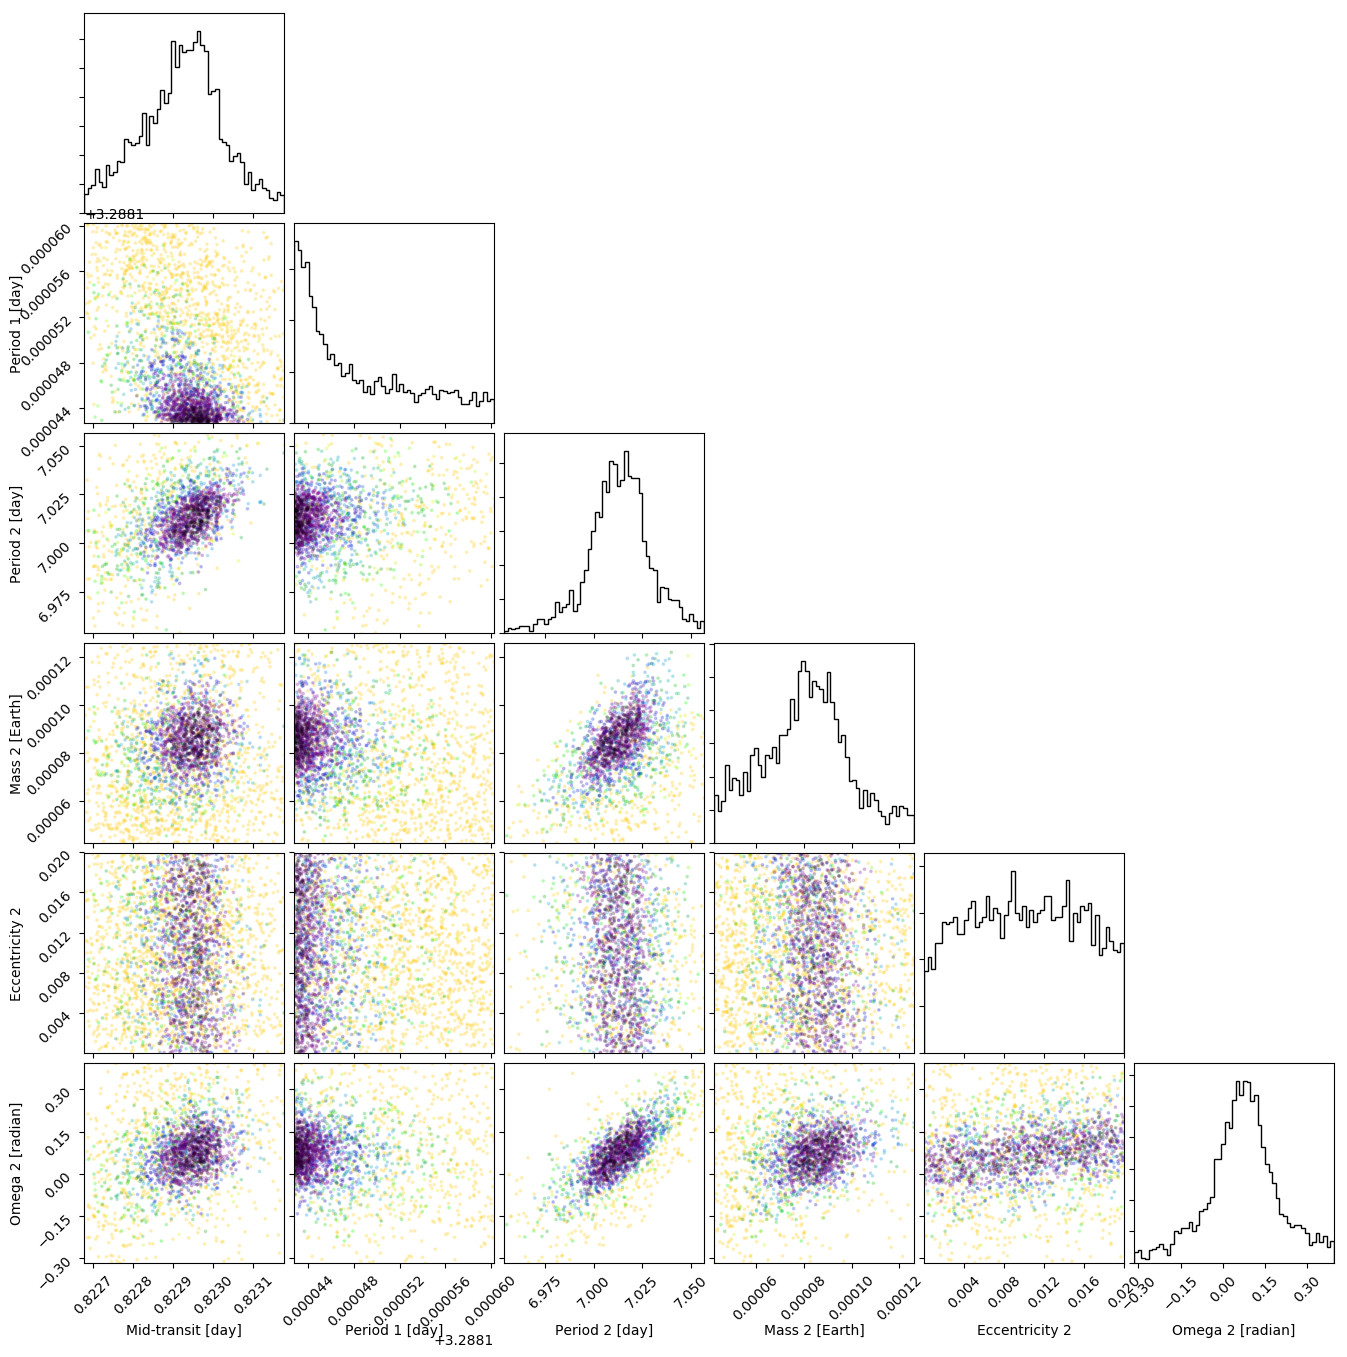
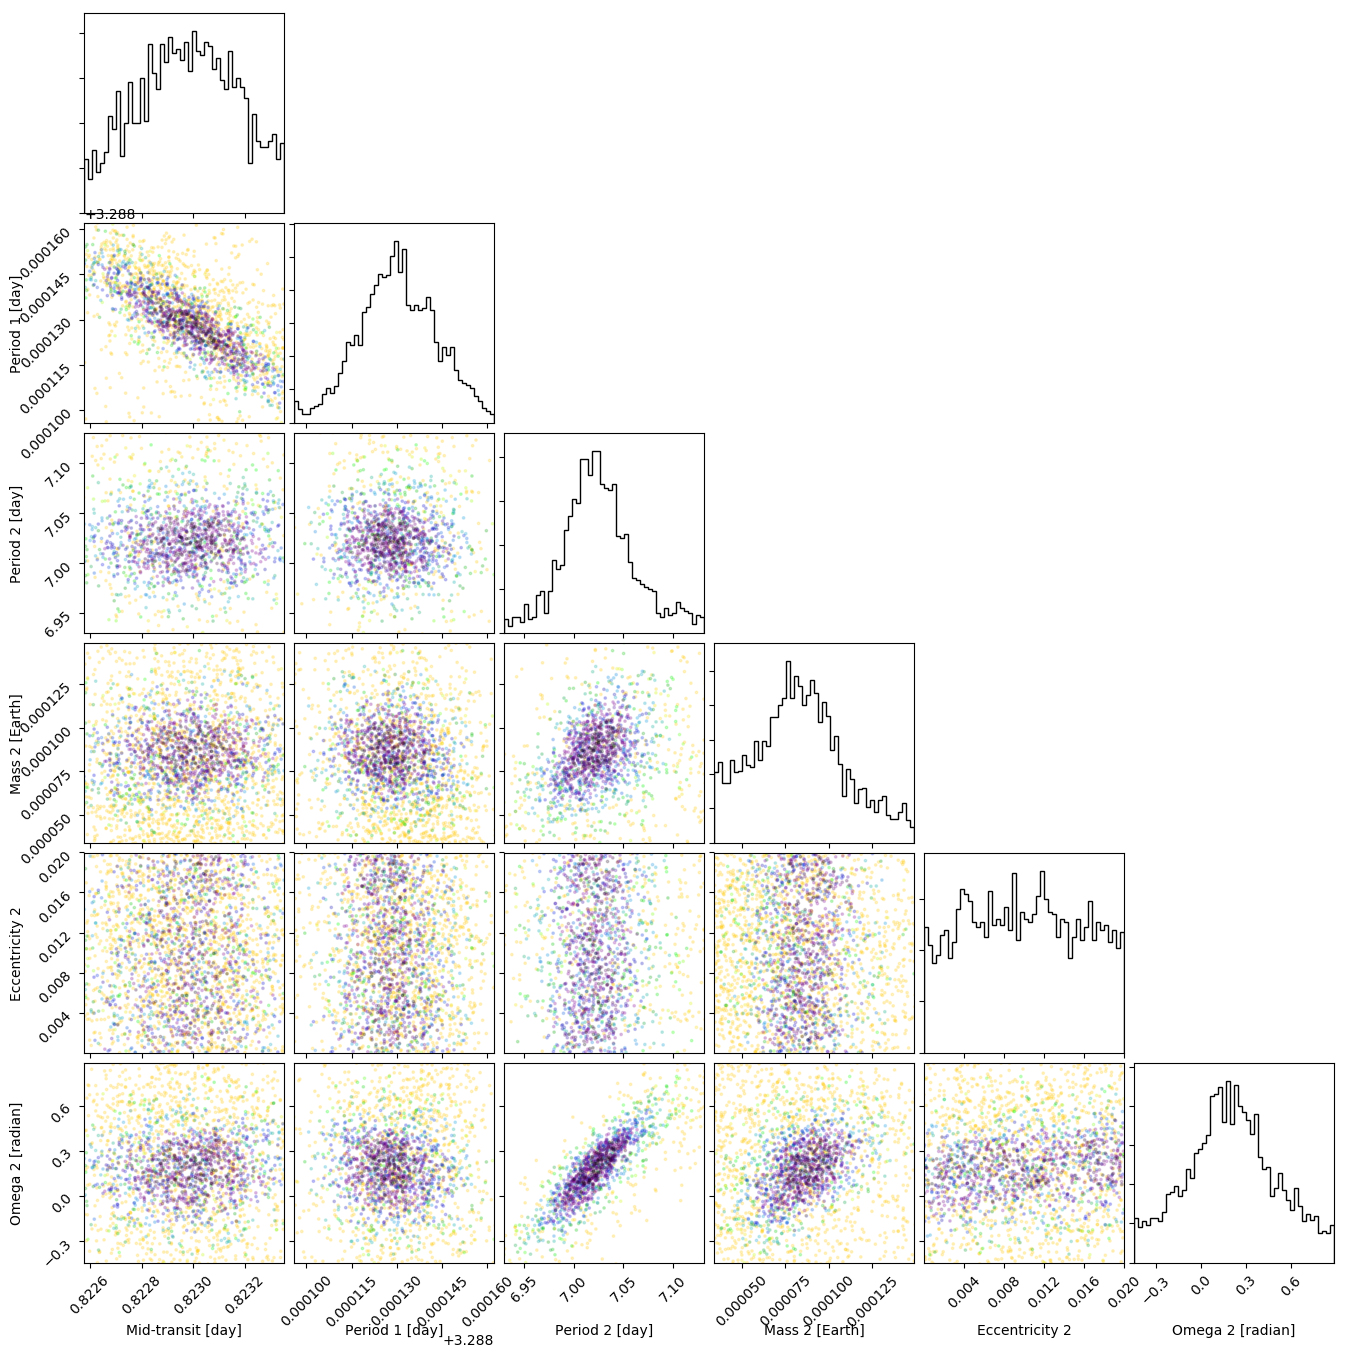
nested nbody fit

diff --git a/nbody/nested.py b/nbody/nested.py
@@ -154,7 +154,7 @@ def get_stats(posterior,percentile=50):
             '1sigma': [low1, high1],
             '2sigma': [low2, high2],
             '3sigma': [low3, high3],
-            '5sigma': [low5, high5],
+            '3sigma': [low5, high5],
             'q75%': q1,
             'q25%': q3,
             'q99%': q99,
@@ -166,14 +166,13 @@ def get_stats(posterior,percentile=50):
 
 
 def nbody_limits( newobj, nlstats, ttv):
-        
-    # TODO create wrapper 
+    # TODO create wrapper?
     upper = np.copy( ttv )
     lower = np.copy( ttv )
     
     obj = copy.deepcopy(newobj)
-    obj[2]['m'] = nlstats['marginals'][3]['5sigma'][0]
-    obj[2]['omega'] = nlstats['marginals'][5]['5sigma'][0]
+    obj[2]['m'] = nlstats['marginals'][3]['3sigma'][0]
+    obj[2]['omega'] = nlstats['marginals'][5]['3sigma'][0]
     sim_data = generate(obj, newobj[1]['P']* (len(ttv)+1), int( (len(ttv)+1)*newobj[1]['P']*24) )
     ttv_data = analyze(sim_data)
     for i in range( len(ttv_data['planets'][0]['ttv']) ):
@@ -184,8 +183,7 @@ def nbody_limits( newobj, nlstats, ttv):
             pass
 
     obj = copy.deepcopy(newobj)
-    obj[2]['m'] = nlstats['marginals'][3]['5sigma'][0]
-    obj[2]['omega'] = nlstats['marginals'][5]['5sigma'][1]
+    obj[2]['m'] = nlstats['marginals'][3]['3sigma'][0]
     sim_data = generate(obj, newobj[1]['P']* (len(ttv)+1), int( (len(ttv)+1)*newobj[1]['P']*24) )
     ttv_data = analyze(sim_data)
     for i in range( len(ttv_data['planets'][0]['ttv']) ):
@@ -196,8 +194,7 @@ def nbody_limits( newobj, nlstats, ttv):
             pass
 
     obj = copy.deepcopy(newobj)
-    obj[2]['m'] = nlstats['marginals'][3]['5sigma'][1]
-    obj[2]['omega'] = nlstats['marginals'][5]['5sigma'][0]
+    obj[2]['m'] = nlstats['marginals'][3]['3sigma'][1]
     sim_data = generate(obj, newobj[1]['P']* (len(ttv)+1), int( (len(ttv)+1)*newobj[1]['P']*24) )
     ttv_data = analyze(sim_data)
     for i in range( len(ttv_data['planets'][0]['ttv']) ):
@@ -208,8 +205,32 @@ def nbody_limits( newobj, nlstats, ttv):
             pass
 
     obj = copy.deepcopy(newobj)
-    obj[2]['m'] = nlstats['marginals'][3]['5sigma'][1]
-    obj[2]['omega'] = nlstats['marginals'][5]['5sigma'][1]
+    obj[2]['m'] = nlstats['marginals'][3]['3sigma'][0]
+    obj[2]['omega'] = nlstats['marginals'][5]['3sigma'][1]
+    sim_data = generate(obj, newobj[1]['P']* (len(ttv)+1), int( (len(ttv)+1)*newobj[1]['P']*24) )
+    ttv_data = analyze(sim_data)
+    for i in range( len(ttv_data['planets'][0]['ttv']) ):
+        try:
+            upper[i] = max( upper[i],ttv_data['planets'][0]['ttv'][i] )
+            lower[i] = min( lower[i],ttv_data['planets'][0]['ttv'][i] )
+        except:
+            pass
+
+    obj = copy.deepcopy(newobj)
+    obj[2]['m'] = nlstats['marginals'][3]['3sigma'][1]
+    obj[2]['omega'] = nlstats['marginals'][5]['3sigma'][0]
+    sim_data = generate(obj, newobj[1]['P']* (len(ttv)+1), int( (len(ttv)+1)*newobj[1]['P']*24) )
+    ttv_data = analyze(sim_data)
+    for i in range( len(ttv_data['planets'][0]['ttv']) ):
+        try:
+            upper[i] = max( upper[i],ttv_data['planets'][0]['ttv'][i] )
+            lower[i] = min( lower[i],ttv_data['planets'][0]['ttv'][i] )
+        except:
+            pass
+
+    obj = copy.deepcopy(newobj)
+    obj[2]['m'] = nlstats['marginals'][3]['3sigma'][1]
+    obj[2]['omega'] = nlstats['marginals'][5]['3sigma'][1]
     sim_data = generate(obj, newobj[1]['P']* (len(ttv)+1), int( (len(ttv)+1)*newobj[1]['P']*24) )
     ttv_data = analyze(sim_data)
     for i in range( len(ttv_data['planets'][0]['ttv']) ):

diff --git a/ttv_grid.py b/ttv_grid.py
@@ -1,0 +1,70 @@
+from nbody.simulation import generate, analyze, report
+from nbody.tools import mjup,msun,mearth,mjup
+
+import numpy as np
+import matplotlib.pyplot as plt
+from matplotlib.colors import ListedColormap
+from matplotlib import cm
+
+if __name__ == "__main__":
+    
+    # units: Msun, Days, au
+    objects = [
+        {'m':1.1933},
+        {'m':0.43*mjup/msun, 'P':3.875, 'inc':3.14159/2, 'e':0, 'omega':0  }, 
+        {'m':mearth/msun, 'P':7.2, 'inc':3.14159/2, 'e':0,  'omega':0  }, 
+    ]
+    # median planet value from TESS
+    #In [10]: m['1d'].predict( np.array([[9.06573*rearth/rjup]]) )
+    #Out[10]: (array([[-0.36545262]]), array([[0.17203385]]))
+
+
+    # create REBOUND simulation
+    # year long integrations, timestep = 1 hour
+    #sim_data = generate(objects, 180, 180*24)
+
+    # collect the analytics of interest from the simulation
+    #ttv_data = analyze(sim_data)
+
+    # plot the results 
+    #report(ttv_data)
+
+    periods = np.linspace(1.25*objects[1]['P'], 2.2*objects[1]['P'], 50 )
+    #masses = np.linspace( objects[1]['m']*0.25, objects[1]['m']*6, 100 ) 
+    masses = np.linspace( mearth/msun, 20*mearth/msun, 50 ) 
+    
+    ttvs = np.zeros((periods.shape[0],masses.shape[0]))
+
+    for i in range(periods.shape[0]):
+        print(i)
+        for j in range(masses.shape[0]):
+            objects[2]['P'] = periods[i]
+            objects[2]['m'] = masses[j]
+
+            sim_data = generate(objects, 180, 180*24)
+
+            ttv_data = analyze(sim_data)
+
+            ttvs[i,j] = ttv_data['planets'][0]['max']*24*60
+
+
+    top = cm.get_cmap('viridis', 200)
+    newcolors = top(np.linspace(0., 1, 200))
+    newcolors[int(200* 2./30):int(200* 5./30), 3] = np.linspace(0,1,int(200* 5./30)-int(200* 2./30) ) # faded 1-3
+    newcolors[:int(200* 2./30), 3] = 0 # white under 1 minutes
+    newcmp = ListedColormap(newcolors)
+
+
+    plt.imshow(ttvs, vmin=0, vmax=30, cmap=newcmp, origin='lower',
+                extent=[ min(masses)*msun/mearth, max(masses)*msun/mearth, min(periods)/objects[1]['P'],max(periods)/objects[1]['P']],
+                aspect=20 )
+
+    plt.ylabel(r'Period Ratio [P$_{outer}$/P$_{inner}$]')
+    plt.xlabel('Mass of Outer Planet [Earth]')
+    plt.title("TTV Estimates for an Inner Planet")
+
+    plt.ylim([1.25,2.2])
+    cbar = plt.colorbar()
+    cbar.set_label('Max TTV [min]', rotation=270, labelpad=10)
+    plt.savefig('ttv_grid.pdf',bbox_inches='tight')
+    plt.close()

diff --git a/nl_fit.py b/nl_fit.py
@@ -9,7 +9,8 @@ import matplotlib.pyplot as plt
 from matplotlib.colors import ListedColormap
 from matplotlib import cm
 
-from nbody.nested import lfit, nlfit
+from nbody.simulation import generate, analyze
+from nbody.nested import lfit, nlfit, nbody_limits
 from nbody.tools import msun, mearth
 
 if __name__ == "__main__":
@@ -102,18 +103,18 @@ if __name__ == "__main__":
         'Omega 2 [radian]',
     ]
 
-    ranges = [ (stats['marginals'][i]['5sigma'][0], stats['marginals'][i]['5sigma'][1]) for i in range(len(stats['marginals'])) ]
+    ranges = [ (nlstats['marginals'][i]['5sigma'][0], nlstats['marginals'][i]['5sigma'][1]) for i in range(len(nlstats['marginals'])) ]
     
     inf = cm.get_cmap('nipy_spectral', 256)
     newcmp = ListedColormap( inf(np.linspace(0,0.75,256))  )
 
-    f = corner.corner(posteriors[:,2:], 
+    f = corner.corner(nlposteriors[:,2:], 
         labels= labels,
-        bins=int(np.sqrt(posteriors.shape[0])), 
+        bins=int(np.sqrt(nlposteriors.shape[0])), 
         range= ranges,
         plot_contours=False,
         plot_density=False,
-        data_kwargs={'c':posteriors[:,1],'vmin':np.percentile(posteriors[:,1],1),'vmax':np.percentile(posteriors[:,1],50),'cmap':newcmp },
+        data_kwargs={'c':nlposteriors[:,1],'vmin':np.percentile(nlposteriors[:,1],1),'vmax':np.percentile(nlposteriors[:,1],50),'cmap':newcmp },
     )
     plt.savefig('ttv_posterior.png',bbox_inches='tight')
     plt.close()
@@ -142,13 +143,6 @@ if __name__ == "__main__":
     plt.savefig('ttv_model.png',bbox_inches='tight')
     plt.close()
 
-
-
-
-
-    # TODO 
-    # full test again
-    # example command line args for sample data 
-
+    # TODO: test all command line arguments
     # run nl_fit.py -i sim_data.txt -p1 3.2888 -tm 0.82 -m1 79.45 -m2 31 -p2 7
     # 3.46 hours 
